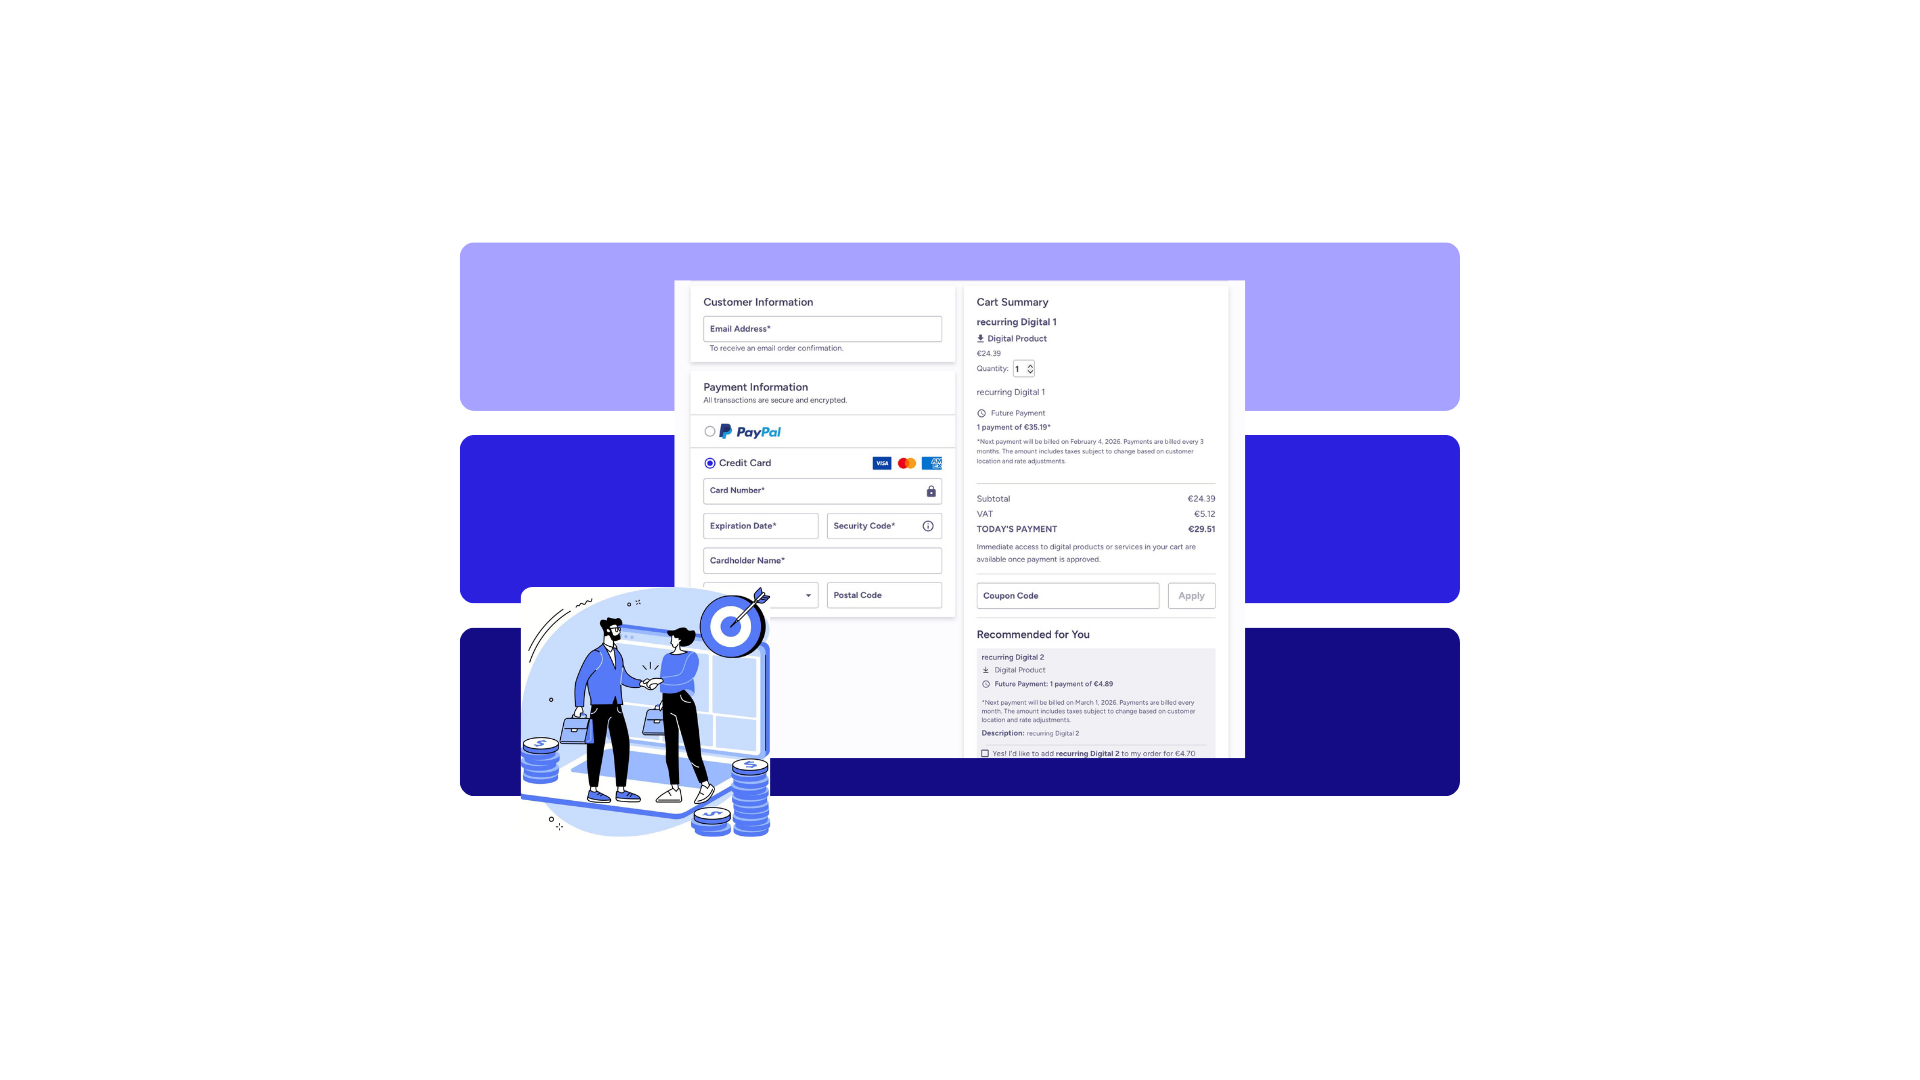
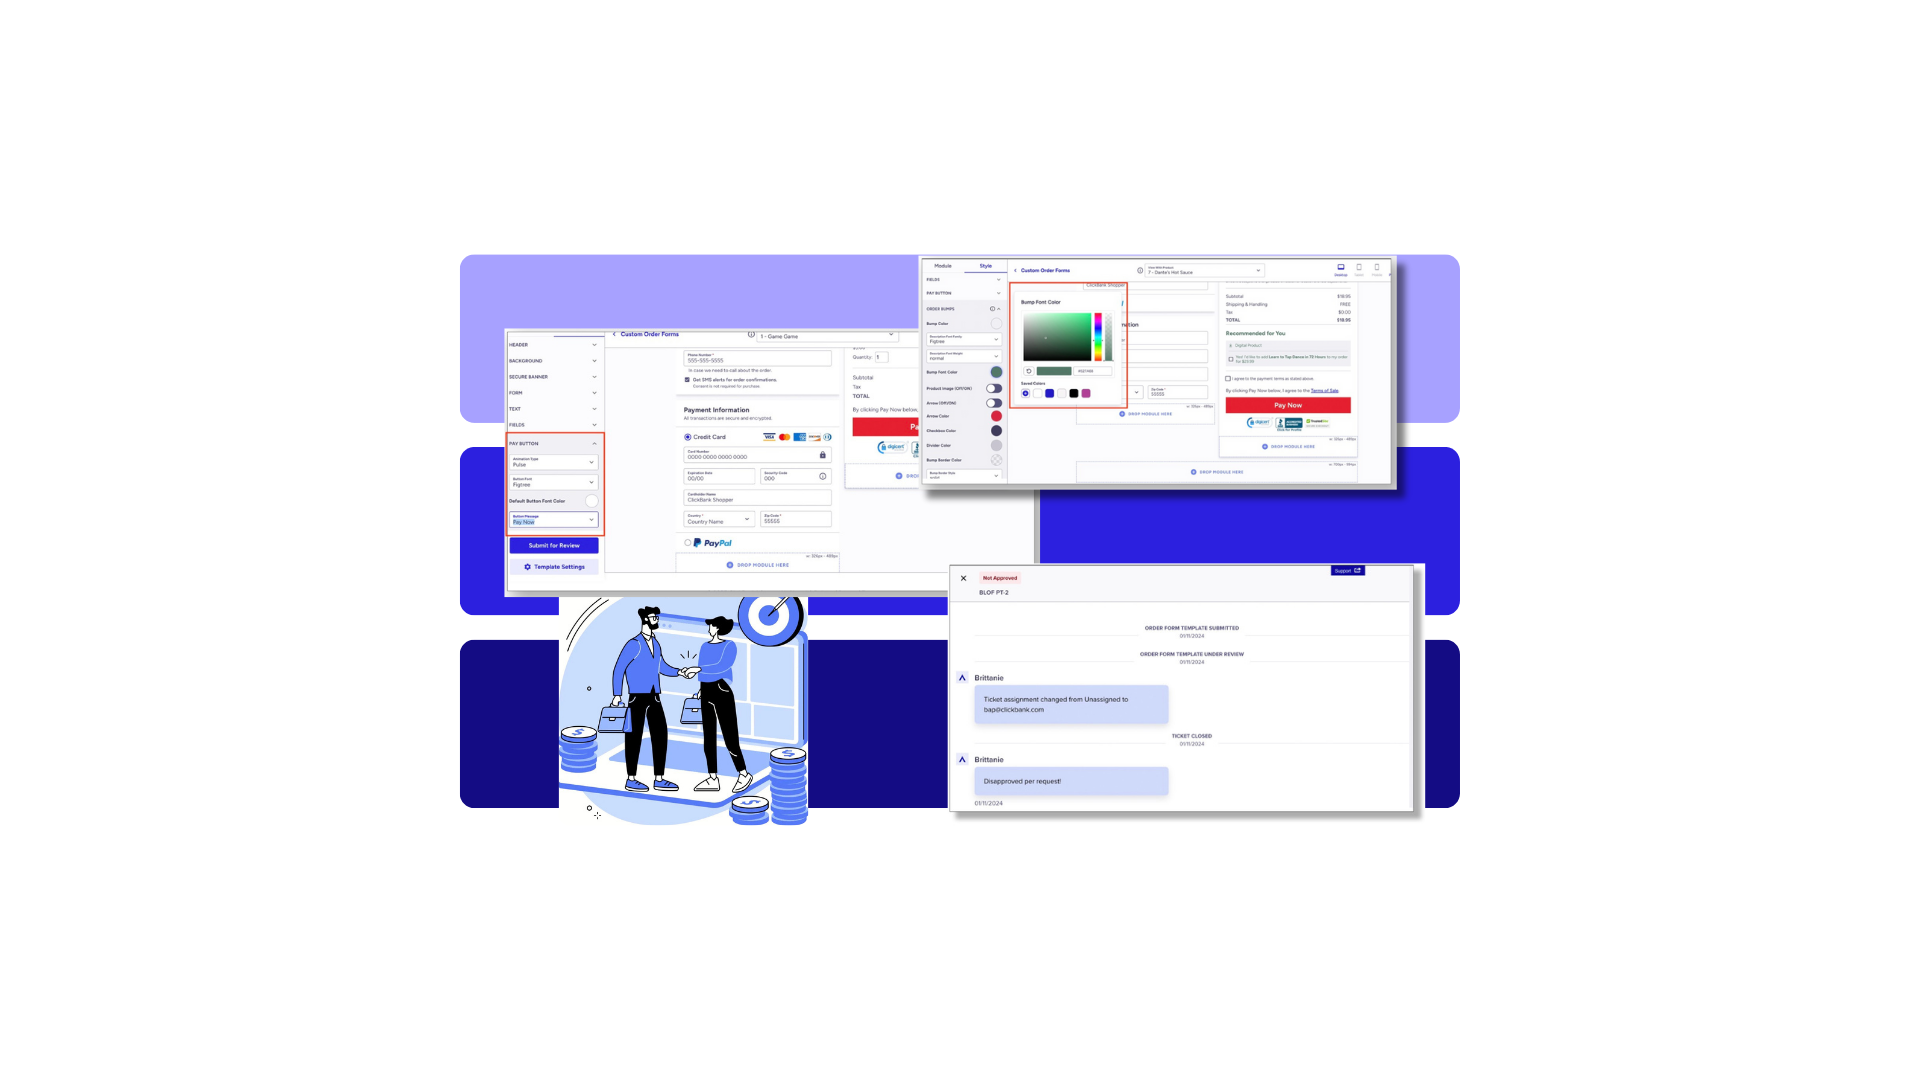
fix: update about image size; update config for 90; change cb image

Changed region(s): [[0.2188, 0.2139, 0.7812, 0.7944]]

diff --git a/src/app/about/about.module.css b/src/app/about/about.module.css
@@ -434,13 +434,23 @@
   }
 
   .aboutHeaderMedia {
-    max-height: 420px;
+    width: min(200px, 100%);
+    aspect-ratio: 4 / 5;
+    max-height: 260px;
+    height: auto;
+    margin: 0 auto;
+  }
+
+  .aboutHeaderImage {
+    object-position: center 20%;
   }
 }
 
 @media (max-width: 700px) {
   .aboutHeaderMedia {
-    max-height: 360px;
+    width: min(170px, 100%);
+    aspect-ratio: 4 / 5;
+    max-height: 220px;
   }
 }
 

diff --git a/next.config.ts b/next.config.ts
@@ -2,6 +2,7 @@ import type { NextConfig } from "next";
 
 const nextConfig: NextConfig = {
   images: {
+    qualities: [75, 90],
     remotePatterns: [
       {
         protocol: "https",
